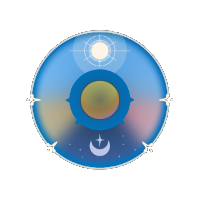
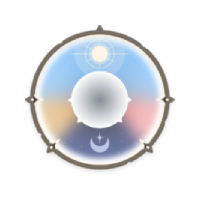
Changing out the textures and adding sun/moon

diff --git a/index.html b/index.html
@@ -4,13 +4,14 @@
   </head>
   <body>
     <div class="headerContainer">
-      <img src="resources/paliatoolsbanner.png"></img>
+      <img src="resources/paliatoolsbanner.png" title="Tools I've made for Palia"></img>
       <div class="PaliaClock_Container">
         <!-- <h1>Current Time in Palia:</h1> -->
         <div class="PaliaClockImage_Container">
-          <img class="PaliaClock_outerring" src="resources/PaliaClock/paliaclock_outerring.png"></img>
+          <!-- <img class="PaliaClock_outerring" src="resources/PaliaClock/paliaclock_outerring.png"></img> -->
           <img class="PaliaClock_hand" src="resources/PaliaClock/clock_hand.png"></img>
           <img class="PaliaClock_background" src="resources/PaliaClock/paliaclock_background.png"></img>
+          <img class="PaliaClock_SunMoon" src="resources/PaliaClock/Moon.png"></img>
         </div>
         <div class="PaliaTime"></div>
         <div class="PaliaDayPeriod"></div>
@@ -18,7 +19,21 @@
       </div>
     </div>
     
-    <p>This is a page where I will make random things I find useful for Palia</p>
+    <div class="MainPageContent">
+      <table>
+        <tr class="TopMenuTabs">
+          <td class="MenuTab">
+            <button>Fish</button>
+          </td>
+          <td class="MenuTab">
+            <button>Bugs</button>
+          </td>
+          <td class="MenuTab">
+            <button>Villagers</button>
+          </td>
+        </tr>
+      </table>
+    </div>
     
   </body>
 </html>

diff --git a/paliaclock.js b/paliaclock.js
@@ -1,5 +1,6 @@
 var paliaTimeDiv = document.getElementsByClassName("PaliaTime")[0];
 var paliaDayPeriodDiv = document.getElementsByClassName("PaliaDayPeriod")[0];
+var paliaSunMoonImg = document.getElementsByClassName("PaliaClock_SunMoon")[0];
 var currentDayPeriod = "Night";
 const dayPeriodChanged = new Event("dayPeriodChanged");
 
@@ -19,12 +20,16 @@ function getCurrentTime() {
     //Figure out which day period we're in
     if (paliaHour >= 3 && paliaHour < 6) {
         currentDayPeriod = "Morning";
+        paliaSunMoonImg.src = "resources/PaliaClock/Sun.png";
     } else if (paliaHour >= 6 && paliaHour < 18) {
         currentDayPeriod = "Day";
+        paliaSunMoonImg.src = "resources/PaliaClock/Sun.png";
     } else if (paliaHour >= 18 && paliaHour < 21) {
         currentDayPeriod = "Evening";
+        paliaSunMoonImg.src = "resources/PaliaClock/Moon.png";
     } else if (paliaHour >= 21 || paliaHour < 3) {
         currentDayPeriod = "Night";
+        paliaSunMoonImg.src = "resources/PaliaClock/Moon.png";
     }
 
     //Dispatch the day period changed at the appropriate hours
@@ -34,7 +39,7 @@ function getCurrentTime() {
     }
 
     //Keep it in 12 hour time instead of 24h (this changes currentPaliaHour, be careful of further uses of that variable)
-    if (currentPaliaHour > 12) {
+    if (paliaHour > 12) {
         currentPaliaHour = currentPaliaHour - 12
         paliaAMPMValue = "PM";
     } else if (currentPaliaHour == 0) {

diff --git a/main.css b/main.css
@@ -3,14 +3,19 @@ body {
     color: #a4b3ce
 }
 
+.MenuTab {
+    padding: 10px;
+    border: 2px groove #949693;
+}
+
 .PaliaClock_Container {
     position: fixed;
     right: 0px;
     top: 0px;
     width: 200px;
-    border: 3px solid #949693;
+    border: 3px groove #949693;
     padding: 10px;
-    
+    background-color: #2f374b;
 }
 
 .PaliaClockImage_Container {
@@ -35,6 +40,14 @@ body {
     margin: auto;
     display: block;
     z-index: 3;
+}
+
+.PaliaClock_SunMoon {
+    position: absolute;
+    transform: translate(76.5px, 76.5px);
+    margin: auto;
+    display: block;
+    z-index: 4;
 }
 
 .PaliaTime {
